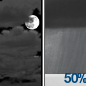
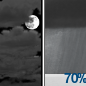
wire: 2026-10-08 RSA-1008-WIRE-107 + first sports/weather siblings

Changed region(s): [[0.7442, 0.8372, 0.8372, 0.9767]]

diff --git a/wire.html b/wire.html
@@ -5,16 +5,16 @@
   <meta name="viewport" content="width=device-width, initial-scale=1.0">
   <script>(function(){try{var s=localStorage.getItem('usmc-theme')||localStorage.getItem('theme');if(s!=='light')document.documentElement.setAttribute('data-theme','dark');}catch(e){}})();</script>
   <title>RESOLUTE Wire — Curated News for Citizens | U.S.M.C. Ministries</title>
-  <meta name="description" content="National and technology reporting for the Thursday morning board.">
+  <meta name="description" content="National and technology reporting for the Thursday evening board.">
   <link rel="canonical" href="https://usmcmin.com/wire.html">
   <meta property="og:site_name" content="RESOLUTE Wire">
-  <meta property="og:title" content="Alaska Guard Black Hawk crew pulls two stranded boaters from north of the Arctic Circle — RESOLUTE Wire">
-  <meta name="twitter:title" content="Alaska Guard Black Hawk crew pulls two stranded boaters from north of the Arctic Circle — RESOLUTE Wire">
-  <meta property="og:description" content="National and technology reporting for the Thursday morning board.">
+  <meta property="og:title" content="USS Arleigh Burke enters dry dock in Spain, a first for the forward-deployed destroyers — RESOLUTE Wire">
+  <meta name="twitter:title" content="USS Arleigh Burke enters dry dock in Spain, a first for the forward-deployed destroyers — RESOLUTE Wire">
+  <meta property="og:description" content="National and technology reporting for the Thursday evening board.">
   <meta property="og:type" content="website">
   <meta property="og:url" content="https://usmcmin.com/wire.html">
-  <meta property="og:image" content="https://usmcmin.com/assets/og/wire-dvids-9998636-akarng-arctic-rescue-1200x630.jpg">
-  <meta name="twitter:image" content="https://usmcmin.com/assets/og/wire-dvids-9998636-akarng-arctic-rescue-1200x630.jpg">
+  <meta property="og:image" content="https://usmcmin.com/assets/og/wire-dvids-9999596-arleigh-burke-cadiz-1200x630.jpg">
+  <meta name="twitter:image" content="https://usmcmin.com/assets/og/wire-dvids-9999596-arleigh-burke-cadiz-1200x630.jpg">
   <meta property="og:image:width" content="1200">
   <meta property="og:image:height" content="630">
   <meta name="twitter:image:width" content="1200">
@@ -134,19 +134,19 @@
     </div>
     <header class="mast" id="top">
       <h1>RESOLUTE <em>Wire</em></h1>
-      <p class="dek">National and technology reporting for the Thursday morning board.</p>
-      <div class="meta">Thursday, October 8, 2026 · AM edition · Rush Sullivan</div>
+      <p class="dek">National and technology reporting for the Thursday evening board.</p>
+      <div class="meta">Thursday, October 8, 2026 · PM edition · Rush Sullivan</div>
     </header>
     <article class="hero">
       <div class="hero-media">
-        <img src="assets/wire/dvids-9998636-akarng-arctic-rescue-1000w.jpg" alt="">
-        <div class="hero-credit">Courtesy photo · DVIDS 9998636 · Public domain · A Nome Volunteer Fire Department emergency medical technician and two rescued boaters ride in a Nome-based Alaska Army National Guard UH-60L Black Hawk during a rescue north of the Arctic Circle, Oct. 6, 2026.</div>
+        <img src="assets/wire/dvids-9999596-arleigh-burke-cadiz-1000w.jpg" alt="">
+        <div class="hero-credit">PO2 Jett Morgan · DVIDS 9999596 · Public domain · USS Arleigh Burke (DDG 51) arrives for dry docking at Navantia Shipyard in Cadiz, Spain. Photo posted Oct. 8, 2026.</div>
       </div>
       <div class="hero-body">
         <span class="chip">DVIDS</span>
-        <h2><a href="https://www.dvidshub.net/news/576600/alaska-army-national-guard-aviators-rescue-two-stranded-boaters-north-arctic-circle" target="_blank" rel="noopener">Alaska Guard Black Hawk crew pulls two stranded boaters from north of the Arctic Circle</a></h2>
-        <p class="insight">Alaska Army National Guard aviators with the 1-168th General Support Aviation Battalion rescued two overdue boaters on Oct. 6 whose vessel was stuck in icy water about 7 miles north of the Arctic Circle. The Alaska Rescue Coordination Center opened the mission after a request from the Alaska State Troopers. A Nome-based UH-60L Black Hawk, with two Nome Volunteer Fire Department emergency medical technicians aboard, found the pair and their dog at a cabin about 75 miles east of Kotzebue, landed on the tundra, and flew them to Kotzebue, where they were released to the Troopers. Capt. Jared Scheler, one of the pilots, said the crew brought the medics because the ages and condition of the two people were unknown.</p>
-        <div class="src">DVIDS · <a href="https://www.dvidshub.net/news/576600/alaska-army-national-guard-aviators-rescue-two-stranded-boaters-north-arctic-circle" target="_blank" rel="noopener">Read source →</a></div>
+        <h2><a href="https://www.dvidshub.net/news/576632/uss-arleigh-burke-enters-dry-dock-spain-expanding-us-navys-forward-deployed-maintenance-capability-europe" target="_blank" rel="noopener">USS Arleigh Burke enters dry dock in Spain, a first for the forward-deployed destroyers</a></h2>
+        <p class="insight">The guided-missile destroyer USS Arleigh Burke entered dry dock at the Navantia shipyard in Cadiz, Spain, on Oct. 7. U.S. 6th Fleet says it is the first dry docking in that theater since the Forward Deployed Naval Forces-Europe destroyers arrived. Vice Adm. J.T. Anderson, the 6th Fleet commander, called it a milestone in doing planned maintenance overseas instead of sending the ship home. Crew and Forward Deployed Regional Maintenance Center personnel are working the availability alongside Navantia. Arleigh Burke is one of five destroyers stationed at Naval Station Rota and assigned to Task Force 65.</p>
+        <div class="src">DVIDS · <a href="https://www.dvidshub.net/news/576632/uss-arleigh-burke-enters-dry-dock-spain-expanding-us-navys-forward-deployed-maintenance-capability-europe" target="_blank" rel="noopener">Read source →</a></div>
       </div>
     </article>
     <section class="rails" aria-label="Channel rails">
@@ -154,32 +154,16 @@
         <h3>Political</h3>
         <article class="item no-media">
           <div>
-            <h4><a href="https://www.thepublicdiscourse.com/2026/10/102068/" target="_blank" rel="noopener">Public Discourse proposes forcing sportsbooks to take bets from skilled gamblers</a></h4>
-            <p>Thursday’s essay says online sports gambling is draining young men, and that politicians are reluctant to crack down because millions of voters place bets. The proposed fix is a congressional rule that sportsbooks treat every customer the same. The piece says books already cap bets from people who can spot a bad line, and that equal treatment would cut into the margin that keeps the business open. It is an argument, not a bill.</p>
-            <div class="who">Public Discourse</div>
-          </div>
-          
-        </article>
-        <article class="item no-media">
-          <div>
-            <h4><a href="https://lawliberty.org/book-review/douglasss-two-constitutions/" target="_blank" rel="noopener">Law &amp; Liberty reviews Frederick Douglass’s turn toward the Constitution</a></h4>
-            <p>Thursday’s review of Dennis Rasmussen’s Frederick Douglass’s American Founding says Douglass moved from William Lloyd Garrison’s view that the Constitution was a slaver’s prison to the claim that it was an abolitionist charter. John O. McGinnis writes that both poles miss the document: it was a compromise that built national institutions able to isolate slavery. The piece is a book review, not a court opinion.</p>
-            <div class="who">Law &amp; Liberty</div>
-          </div>
-          
-        </article>
-        <article class="item no-media">
-          <div>
-            <h4><a href="https://www.heritage.org/global-politics/report/time-end-the-long-iran-nicaragua-relationship" target="_blank" rel="noopener">Heritage says it is time to end the long Iran–Nicaragua relationship</a></h4>
-            <p>Thursday’s report says that after U.S. and Israeli strikes on Iran’s nuclear weapons project in the June 2025 “12-Day War,” U.S. intelligence agencies warned that the risk of retaliation against the United States would rise substantially if Iranian leadership issued a religious ruling calling for it. The piece treats Managua as a remaining partner in that network. It is a policy report, not a new intelligence product.</p>
+            <h4><a href="https://www.heritage.org/election-integrity/commentary/you-destroy-2024-election-records-keep-the-evidence" target="_blank" rel="noopener">Heritage says the 22-month hold on 2024 federal election records has now run out</a></h4>
+            <p>Thursday&#x27;s commentary by Ken Cuccinelli says federal law required records tied to the November 2024 election to be kept for 22 months, and that clock has now expired. Officials who destroy those files after the deadline are inside the statute. The piece argues they should keep the evidence anyway. It is a commentary, not a new statute.</p>
             <div class="who">Heritage Foundation</div>
           </div>
           
         </article>
         <article class="item no-media">
           <div>
-            <h4><a href="https://lawliberty.org/some-college-grades-need-to-go-up/" target="_blank" rel="noopener">Law &amp; Liberty notes FIRE’s top free-speech colleges scored a B-minus</a></h4>
-            <p>Thursday’s essay says the Foundation for Individual Rights and Expression gave the University of Chicago 81.42 and Claremont McKenna College 80.13 in the 2027 College Free Speech Rankings — both a B-minus, and both the top of the list. It contrasts that with Harvard, where almost 21 percent of the Class of 2026 reported a GPA rounded to 4.0 and almost nobody reported below 3.1. The piece is an argument about grade inflation, not a new ranking release.</p>
+            <h4><a href="https://lawliberty.org/forum/the-catechetical-college/" target="_blank" rel="noopener">Law &amp; Liberty asks whether Buckley wanted a catechetical college</a></h4>
+            <p>Cheryl Miller&#x27;s forum essay, posted Wednesday, answers Robert P. George on God and Man at Yale at 75. George wants a balanced curriculum and rejects catechesis in the classroom. Miller writes that Buckley wanted a formative university, not a catechetical one, and that the student was still to remain the final arbiter. She notes state boards are now standing up civics schools where private trustees have not. It is an argument, not a new statute.</p>
             <div class="who">Law &amp; Liberty</div>
           </div>
           
@@ -189,16 +173,16 @@
         <h3>Tech / AI</h3>
         <article class="item no-media">
           <div>
-            <h4><a href="https://www.defensenews.com/industry/techwatch/2026/10/06/its-official-us-armys-improved-m8-rifle-to-begin-fielding-in-december/" target="_blank" rel="noopener">Army’s lighter M8 rifle is set to reach Fort Bragg units in December</a></h4>
-            <p>Defense News reported Tuesday that Sig Sauer executives said fielding of the M8 carbine begins in December with some units at Fort Bragg, North Carolina, less than three years after the M7 started reaching soldiers. Dave Buehler, the company’s vice president of manufacturing, said the M250 machine gun, meant to replace the M249, is expected in the first half of next year. Both weapons use the 6.8×51mm Common Cartridge. Josh Shoemaker, Sig’s defense product manager, said the M8 is more than a pound lighter than the M7 and has a barrel 3.5 inches shorter, with a fixed stock in place of the folding one. The figures come from the company, not an Army field report.</p>
+            <h4><a href="https://www.defensenews.com/global/europe/2026/10/06/france-fires-upgraded-nuclear-capable-missile-from-submarine-for-first-time/" target="_blank" rel="noopener">France fires an upgraded ballistic missile from a submarine for the first time</a></h4>
+            <p>Defense News reported Tuesday that the nuclear-powered ballistic-missile submarine Le Vigilant fired an M51.3 on Oct. 6 in an acceptance test after the boat&#x27;s overhaul. The French Ministry of the Armed Forces said the missile carried no nuclear warhead, launched off Finistère, and came down in the North Atlantic several hundred kilometers from any coast. President Emmanuel Macron watched from a French Navy vessel and called it a step for strategic credibility. The ministry said the missile entered operational service last October after a 2023 land test. Range figures in the piece come from the Bulletin of the Atomic Scientists, not from Paris.</p>
             <div class="who">Defense News</div>
           </div>
           
         </article>
         <article class="item no-media">
           <div>
-            <h4><a href="https://www.defensenews.com/industry/techwatch/2026/10/06/pentagon-names-4-directed-energy-weapons-for-counter-drone-program-at-us-bases/" target="_blank" rel="noopener">Pentagon names four directed-energy weapons for a base counter-drone pilot</a></h4>
-            <p>Defense News reported Tuesday that the Defense Department named four systems for a homeland counter-drone pilot ordered by Congress: AeroVironment’s Palletized High-Energy Laser, Epirus’s Leonidas high-powered microwave, Kord’s Firefly high-energy laser, and Boeing’s Compact Laser Weapon System. Joint Interagency Task Force 401, the Army-led office stood up last year, will run the pilot. Brig. Gen. Matt Ross, the task force director, said the test is meant to show how the weapons fit a layered defense and what it costs to keep them running. It is a selection for a pilot, not a fielding order.</p>
+            <h4><a href="https://www.defensenews.com/industry/techwatch/2026/10/08/us-air-force-army-eye-industry-access-on-test-ranges/" target="_blank" rel="noopener">Air Force is studying Army-style industry access to military test ranges</a></h4>
+            <p>Defense News reported Thursday that Brig. Gen. Mark Massaro, commander of the Air Force Test Center, told a Mitchell Institute forum the service is working with the Army on how to open ranges to approved companies. Earlier this year the Army opened five ranges, four in the United States and one overseas. Massaro said the Air Force has talked with Army Test and Evaluation Command and that he arranged smaller tests for contractors while commanding the 96th Test Wing at Eglin. He also said overhead imagery and drone incursions are a reason to protect what is being tested. It is a study, not an open-gate order.</p>
             <div class="who">Defense News</div>
           </div>
           
@@ -208,9 +192,9 @@
         <h3>Culture</h3>
         <article class="item no-media">
           <div>
-            <h4><a href="https://firstthings.com/what-scholasticism-can-teach-us-about-ai-consciousness/" target="_blank" rel="noopener">First Things says a machine that copies a person is still not a person</a></h4>
-            <p>Thursday’s essay says the usual defense of machine consciousness is functionalist: if a system can imitate the products of human thought, there is no reason to treat it as different. It cites Pope Leo XIV’s recent line that there is an “ontological difference” between the work of human artists and generative systems, and treats that line as a challenge to the imitation test. The piece is an argument about what a person is, not a lab result.</p>
-            <div class="who">First Things</div>
+            <h4><a href="https://wng.org/articles/the-social-reckoning-1791473131" target="_blank" rel="noopener">WORLD says Sorkin&#x27;s Facebook film moves January 6 nine months to make a point</a></h4>
+            <p>Thursday&#x27;s review of Aaron Sorkin&#x27;s The Social Reckoning says the film cuts a congressional hearing against the January 6 Capitol riot as if the two happened together. They were nine months apart, and the Facebook Files ran in September 2021, later than the movie implies. The reviewer also notes the film shows people radicalized against masks and vaccines and does not show left-wing radicalization. Frances Haugen, at a Washington screening, said the real reporter is not as lost as the character and that teen mental health was a larger part of her case than the film allows. It is a review, not a court finding.</p>
+            <div class="who">WORLD News Group</div>
           </div>
           
         </article>
@@ -226,7 +210,7 @@
     </section>
     <section class="watch">
       <h3>Watch</h3>
-      <ul><li><a href="https://www.dvidshub.net/news/576611/diesel-express-supports-army-operations-between-poland-and-germany" target="_blank" rel="noopener">Chinooks flew a weekly Poland-to-Germany shuttle with soldiers and radios</a> </li><li><a href="https://www.dvidshub.net/news/576586/delivering-readiness-tacom-and-dot-modernize-rail-assets" target="_blank" rel="noopener">Army takes delivery of its first new locomotives in more than a decade</a> </li></ul>
+      <ul><li><a href="https://www.dvidshub.net/news/576598/nimitz-completes-flight-deck-certification" target="_blank" rel="noopener">Nimitz finished flight-deck certification on its first underway out of Norfolk</a> </li><li><a href="https://www.defensenews.com/news/your-military/2026/10/08/pentagon-recruits-drone-pilots-from-across-services-for-upcoming-competition/" target="_blank" rel="noopener">Pentagon is recruiting about 100 drone pilots for the next Gauntlet round</a> </li></ul>
     </section>
     <section class="dock">
       <a href="sports.html"><div class="k">Texas desk</div><div class="t">Sports</div><div class="d">Texans, Astros, Rockets — character and the score.</div></a>

diff --git a/weather.html b/weather.html
@@ -131,7 +131,7 @@
     <header class="mast" id="top">
       <h1>RESOLUTE <em>Weather</em></h1>
       <p class="dek">Fredericksburg, Virginia — National Weather Service. Readiness, not climate talk.</p>
-      <div class="meta">Thursday, October 8, 2026 · AM edition</div>
+      <div class="meta">Thursday, October 8, 2026 · PM edition</div>
     </header>
     <article class="hero">
       <div class="hero-media">
@@ -140,16 +140,16 @@
       </div>
       <div class="hero-body">
         <span class="chip">NWS / Readiness</span>
-        <h2>No active NWS alerts on the Fredericksburg point. Sunny today, high near 73.</h2>
-        <p class="insight">NWS lists no active alert for the Fredericksburg forecast point. Today is sunny, with a high near 73 and a west wind of 6 to 12 mph, gusting as high as 21 mph. Tonight is clear, with a low around 47. Friday is sunny, near 72. Saturday night brings a 50 percent chance of showers after 2 a.m., and Sunday’s forecast is rain showers with a high near 63.</p>
+        <h2>No active NWS alerts on the Fredericksburg point. Sunny this afternoon, high near 75.</h2>
+        <p class="insight">NWS lists no active alert for the Fredericksburg forecast point. This afternoon is sunny, with a high near 75 and a northwest wind around 12 mph, gusting as high as 21. Tonight is mostly clear, with a low around 44. Friday is sunny, near 73. Saturday night turns wet: rain showers likely after 2 a.m., a 70 percent chance, with a low around 54.</p>
         <div class="src">Alerts: No watch or warning is up. · <a href="https://forecast.weather.gov/MapClick.php?lat=38.3032&amp;lon=-77.4605" target="_blank" rel="noopener">NWS forecast →</a></div>
-        <ul class="actions"><li>No active watches or warnings on the city point</li><li>Sunny today, high near 73, gusts as high as 21 mph</li><li>Rain showers in the Sunday forecast</li></ul>
+        <ul class="actions"><li>No active watches or warnings on the city point</li><li>Sunny this afternoon, high near 75, gusts to 21 mph</li><li>Rain showers likely after 2 a.m. Saturday night</li></ul>
       </div>
     </article>
     <section class="watch">
       <h3>Forecast</h3>
-      <p class="src">NWS forecast issued 11:40 AM EDT, Oct. 8. Periods below are as issued for this edition · <a href="https://forecast.weather.gov/MapClick.php?lat=38.3032&amp;lon=-77.4605" target="_blank" rel="noopener">Current forecast →</a></p>
-      <div class="period"><img class="period-icon" src="assets/weather/nws-today-day-few.png" alt=""><div><strong>Today</strong><p class="insight">Sunny, with a high near 73. West wind 6 to 12 mph, with gusts as high as 21 mph.</p></div></div><div class="period"><img class="period-icon" src="assets/weather/nws-tonight-night-skc.png" alt=""><div><strong>Tonight</strong><p class="insight">Clear, with a low around 47. West wind 2 to 8 mph.</p></div></div><div class="period"><img class="period-icon" src="assets/weather/nws-friday-day-few.png" alt=""><div><strong>Friday</strong><p class="insight">Sunny, with a high near 72. West wind around 6 mph.</p></div></div><div class="period"><img class="period-icon" src="assets/weather/nws-friday-night-night-sct.png" alt=""><div><strong>Friday Night</strong><p class="insight">Partly cloudy, with a low around 48. Northwest wind 0 to 3 mph.</p></div></div><div class="period"><img class="period-icon" src="assets/weather/nws-saturday-day-bkn.png" alt=""><div><strong>Saturday</strong><p class="insight">Partly sunny, with a high near 71. East wind 0 to 6 mph.</p></div></div><div class="period"><img class="period-icon" src="assets/weather/nws-saturday-night-night-bkn-rain.png" alt=""><div><strong>Saturday Night</strong><p class="insight">A chance of rain showers after 2am. Mostly cloudy, with a low around 55. Chance of precipitation is 50%.</p></div></div>
+      <p class="src">NWS forecast issued 3:39 PM EDT, Oct. 8. Periods below are as issued for this edition · <a href="https://forecast.weather.gov/MapClick.php?lat=38.3032&amp;lon=-77.4605" target="_blank" rel="noopener">Current forecast →</a></p>
+      <div class="period"><img class="period-icon" src="assets/weather/nws-this-afternoon-day-skc.png" alt=""><div><strong>This Afternoon</strong><p class="insight">Sunny, with a high near 75. Northwest wind around 12 mph, with gusts as high as 21 mph.</p></div></div><div class="period"><img class="period-icon" src="assets/weather/nws-tonight-night-few.png" alt=""><div><strong>Tonight</strong><p class="insight">Mostly clear, with a low around 44. West wind 2 to 7 mph.</p></div></div><div class="period"><img class="period-icon" src="assets/weather/nws-friday-day-few.png" alt=""><div><strong>Friday</strong><p class="insight">Sunny, with a high near 73. West wind around 6 mph.</p></div></div><div class="period"><img class="period-icon" src="assets/weather/nws-friday-night-night-sct.png" alt=""><div><strong>Friday Night</strong><p class="insight">Partly cloudy, with a low around 46. North wind 0 to 3 mph.</p></div></div><div class="period"><img class="period-icon" src="assets/weather/nws-saturday-day-bkn.png" alt=""><div><strong>Saturday</strong><p class="insight">Partly sunny, with a high near 71. East wind 0 to 6 mph.</p></div></div><div class="period"><img class="period-icon" src="assets/weather/nws-saturday-night-night-bkn-rain.png" alt=""><div><strong>Saturday Night</strong><p class="insight">Rain showers likely after 2am. Mostly cloudy, with a low around 54. Chance of precipitation is 70%.</p></div></div>
       
     </section>
     <section class="dock">

diff --git a/sports.html b/sports.html
@@ -131,7 +131,7 @@
     <header class="mast" id="top">
       <h1>RESOLUTE <em>Sports</em></h1>
       <p class="dek">Texas desk — Texans, Astros, Rockets. Character and the score, not celebrity.</p>
-      <div class="meta">Thursday, October 8, 2026 · AM edition</div>
+      <div class="meta">Thursday, October 8, 2026 · PM edition</div>
     </header>
     <article class="hero">
       <div class="hero-media">
@@ -150,23 +150,23 @@
         <article class="item">
           <div>
             <h4><a href="https://www.houstontexans.com/schedule/" target="_blank" rel="noopener">Texans are on the road Sunday at Tennessee, noon Central</a></h4>
-            <p>The Houston Texans schedule lists Sunday, Oct. 11, as an away game at the Tennessee Titans, Nissan Stadium in Nashville, noon Central, on CBS. The next listed date is Sunday, Oct. 18, at Jacksonville, 8:30 a.m. Central, at Wembley Stadium in London. The club page does not print a final for the Oct. 4 home game against Dallas.</p>
+            <p>The Houston Texans schedule lists Sunday, Oct. 11, as an away game at the Tennessee Titans, Nissan Stadium in Nashville, noon Central. The next listed date is Sunday, Oct. 18. The club page does not print a final for the Oct. 4 home game against Dallas.</p>
             <div class="who">Houston Texans</div>
           </div>
           <div class="thumb"><img src="assets/sports/nrg-reliant-interior.jpg" alt=""></div>
         </article>
         <article class="item">
           <div>
-            <h4><a href="https://www.mlb.com/news/joe-espada-discusses-future-with-astros-after-al-wild-card-series-loss" target="_blank" rel="noopener">Astros open the offseason hunting a general manager, with Espada’s status still open</a></h4>
-            <p>MLB.com reports the Astros were swept by the White Sox in the American League Wild Card Series, 7-3 in the last game, after an 81-81 season that still won the AL West. Joe Espada, in the last year of his contract, said Wednesday he would like to return. The club is searching for a general manager. No new manager decision is posted.</p>
+            <h4><a href="https://www.mlb.com/news/5-questions-facing-astros-in-2026-offseason" target="_blank" rel="noopener">Astros still have no general manager a week after the White Sox series</a></h4>
+            <p>MLB.com reports the club parted ways with general manager Dana Brown on Aug. 24. Assistant general managers Charles Cook, Gavin Dickey, and Connor Huff, with senior advisor Jeff Bagwell, have carried the work, and owner Jim Crane is overseeing baseball operations. Nearly a week after the White Sox eliminated Houston in two games in the American League Wild Card Series, MLB.com says the search is unchanged. Manager Joe Espada&#x27;s contract expires at the end of October. He said last week he would like to return. No decision is posted.</p>
             <div class="who">MLB.com</div>
           </div>
           <div class="thumb"><img src="assets/sports/daikin-minute-maid-2010.jpg" alt=""></div>
         </article>
         <article class="item">
           <div>
-            <h4><a href="https://www.nba.com/news/key-dates" target="_blank" rel="noopener">Rockets open the preseason Friday against Dallas in Macao</a></h4>
-            <p>NBA.com’s 2026-27 key dates, updated Oct. 6, list Oct. 9 as an NBA China Games preseason date: Dallas against Houston at The Venetian Arena in Macao, with a second game there Oct. 11. Rosters for opening day are set Oct. 19 at 5 p.m. Eastern. The regular season starts Oct. 20.</p>
+            <h4><a href="https://www.nba.com/rockets/game/0012600012-rockets-vs-mavericks-macao-china-10-09-2026/event-details" target="_blank" rel="noopener">Rockets open the preseason Friday against Dallas in Macao</a></h4>
+            <p>The Rockets&#x27; game page lists Friday, Oct. 9, against the Dallas Mavericks in Macao. The Venetian Arena lists a second preseason game there on Sunday, Oct. 11, at 5:30 p.m. local. Rosters for opening day are set Oct. 19 at 5 p.m. Eastern. The regular season starts Oct. 20. No final is posted. The Friday game has not been played.</p>
             <div class="who">NBA.com</div>
           </div>
           <div class="thumb"><img src="assets/sports/toyota-center-interior.jpg" alt=""></div>
